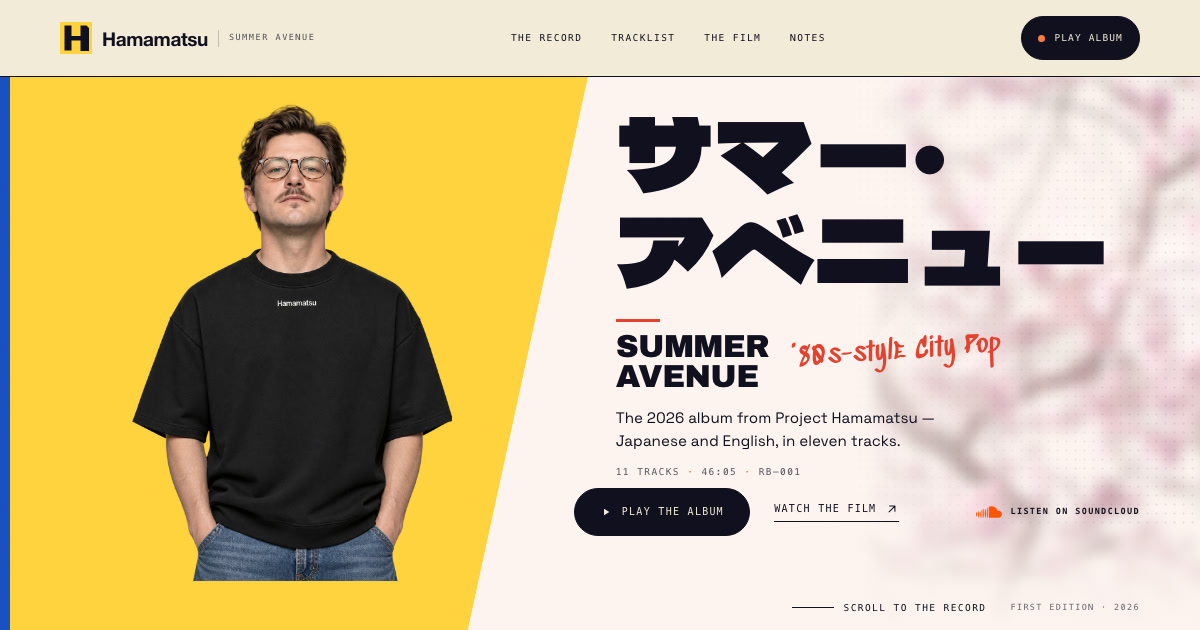
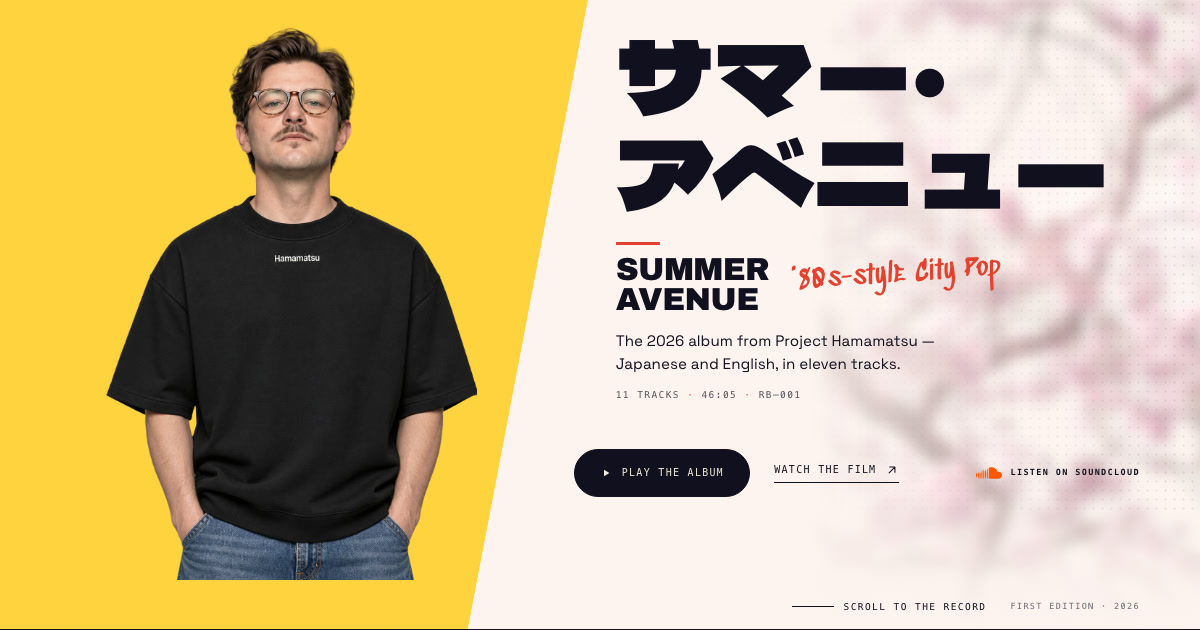
Strip the site chrome from the social card
Re-capture the 1200x630 hero with the header and the left blue edge hidden, so the preview reads as the poster rather than a screenshot of the page chrome.

diff --git a/index.html b/index.html
@@ -27,7 +27,7 @@
   <meta property="og:description" content="Eleven city-pop songs for the long way home. The 2026 album from Project Hamamatsu.">
   <meta property="og:url" content="https://rbaranov.ch/hamamatsu">
   <meta property="og:image" content="https://rbaranov.ch/hamamatsu/assets/img/og-summer-avenue-home-2026.jpg">
-  <meta property="og:image:alt" content="Summer Avenue homepage: the yellow hero poster with a portrait in a black Hamamatsu T-shirt, the Japanese and English album title, the ’80s-style City Pop accent, and Play the Album, Watch the Film, and Listen on SoundCloud actions.">
+  <meta property="og:image:alt" content="Summer Avenue hero poster: a portrait in a black Hamamatsu T-shirt on a yellow field, the Japanese and English album title, the ’80s-style City Pop accent, and Play the Album, Watch the Film, and Listen on SoundCloud actions.">
   <meta property="og:image:type" content="image/jpeg">
   <meta property="og:image:width" content="1200">
   <meta property="og:image:height" content="630">
@@ -36,7 +36,7 @@
   <meta name="twitter:title" content="Summer Avenue — Project Hamamatsu">
   <meta name="twitter:description" content="Eleven city-pop songs for the long way home. The 2026 album from Project Hamamatsu.">
   <meta name="twitter:image" content="https://rbaranov.ch/hamamatsu/assets/img/og-summer-avenue-home-2026.jpg">
-  <meta name="twitter:image:alt" content="Summer Avenue homepage: the yellow hero poster with a portrait in a black Hamamatsu T-shirt, the Japanese and English album title, the ’80s-style City Pop accent, and Play the Album, Watch the Film, and Listen on SoundCloud actions.">
+  <meta name="twitter:image:alt" content="Summer Avenue hero poster: a portrait in a black Hamamatsu T-shirt on a yellow field, the Japanese and English album title, the ’80s-style City Pop accent, and Play the Album, Watch the Film, and Listen on SoundCloud actions.">
 
   <link rel="icon" href="/hamamatsu/assets/img/hamamatsu-mark.svg" type="image/svg+xml">
   <link rel="icon" href="/hamamatsu/assets/img/favicon-hamamatsu.ico" sizes="16x16 32x32 48x48">

diff --git a/README.md b/README.md
@@ -100,7 +100,7 @@ npx http-server -p 8765 -c-1 .
 
 ### Social preview
 
-The card is a 1200×630 capture of the homepage hero, `assets/img/og-summer-avenue-home-2026.jpg`, used for both `og:image` and `twitter:image`. Re-capture it at 1200×630 with reduced motion enabled when the hero changes. `tools/og.html` is the earlier hand-built card, kept for reference.
+The card is a 1200×630 capture of the homepage hero with the header hidden and the left blue edge removed, `assets/img/og-summer-avenue-home-2026.jpg`, used for both `og:image` and `twitter:image`. Re-capture it at 1200×630 with reduced motion enabled when the hero changes. `tools/og.html` is the earlier hand-built card, kept for reference.
 
 Previews are cached per URL. After replacing the image, re-scrape with the Facebook Sharing Debugger or LinkedIn Post Inspector.
 
